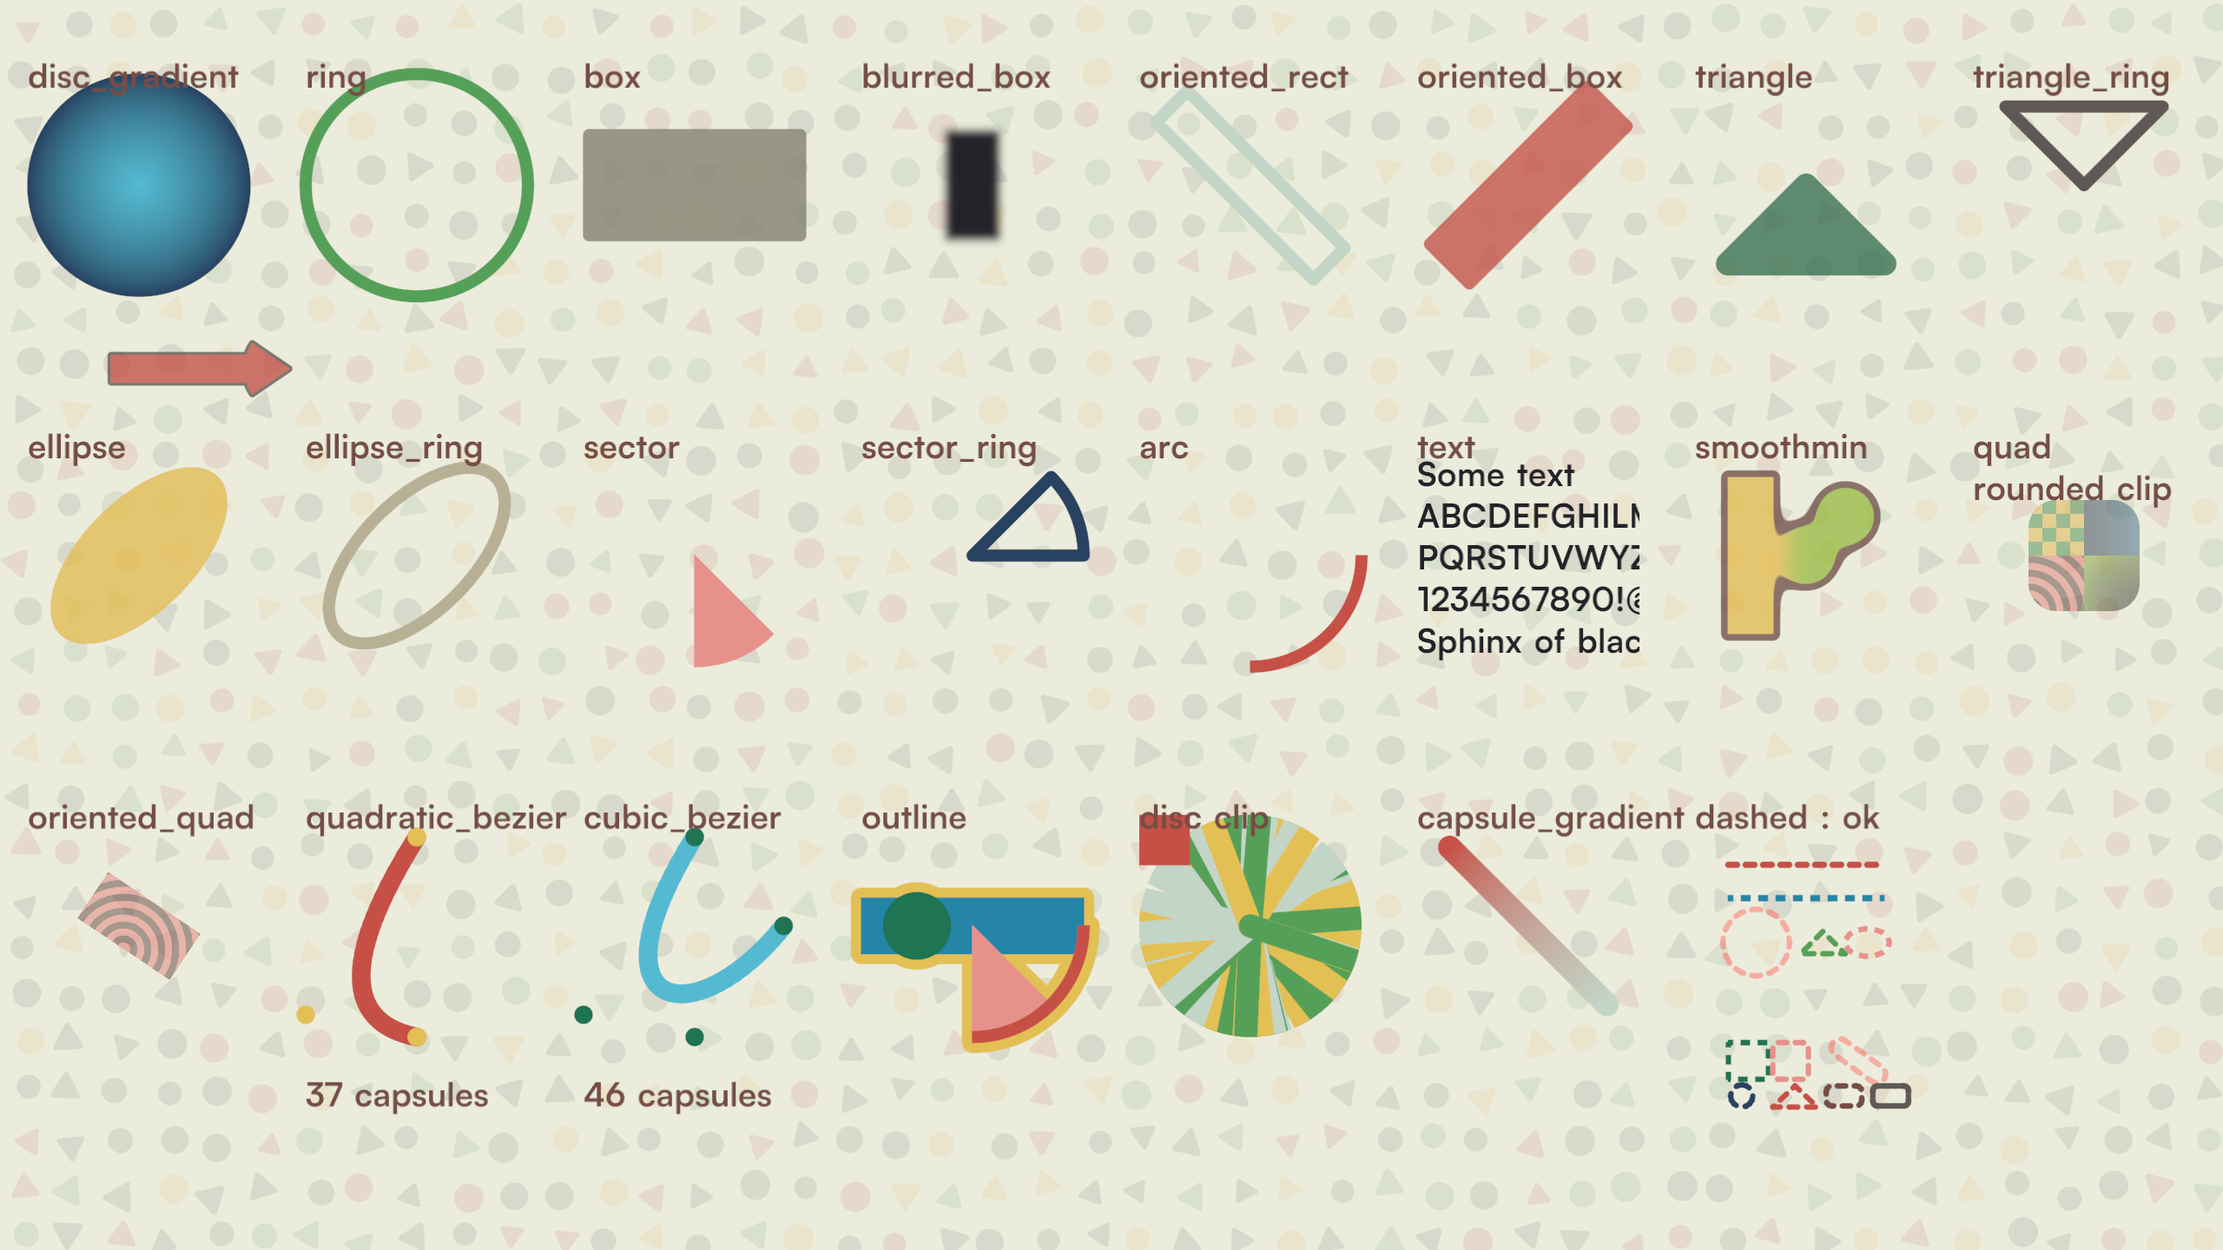
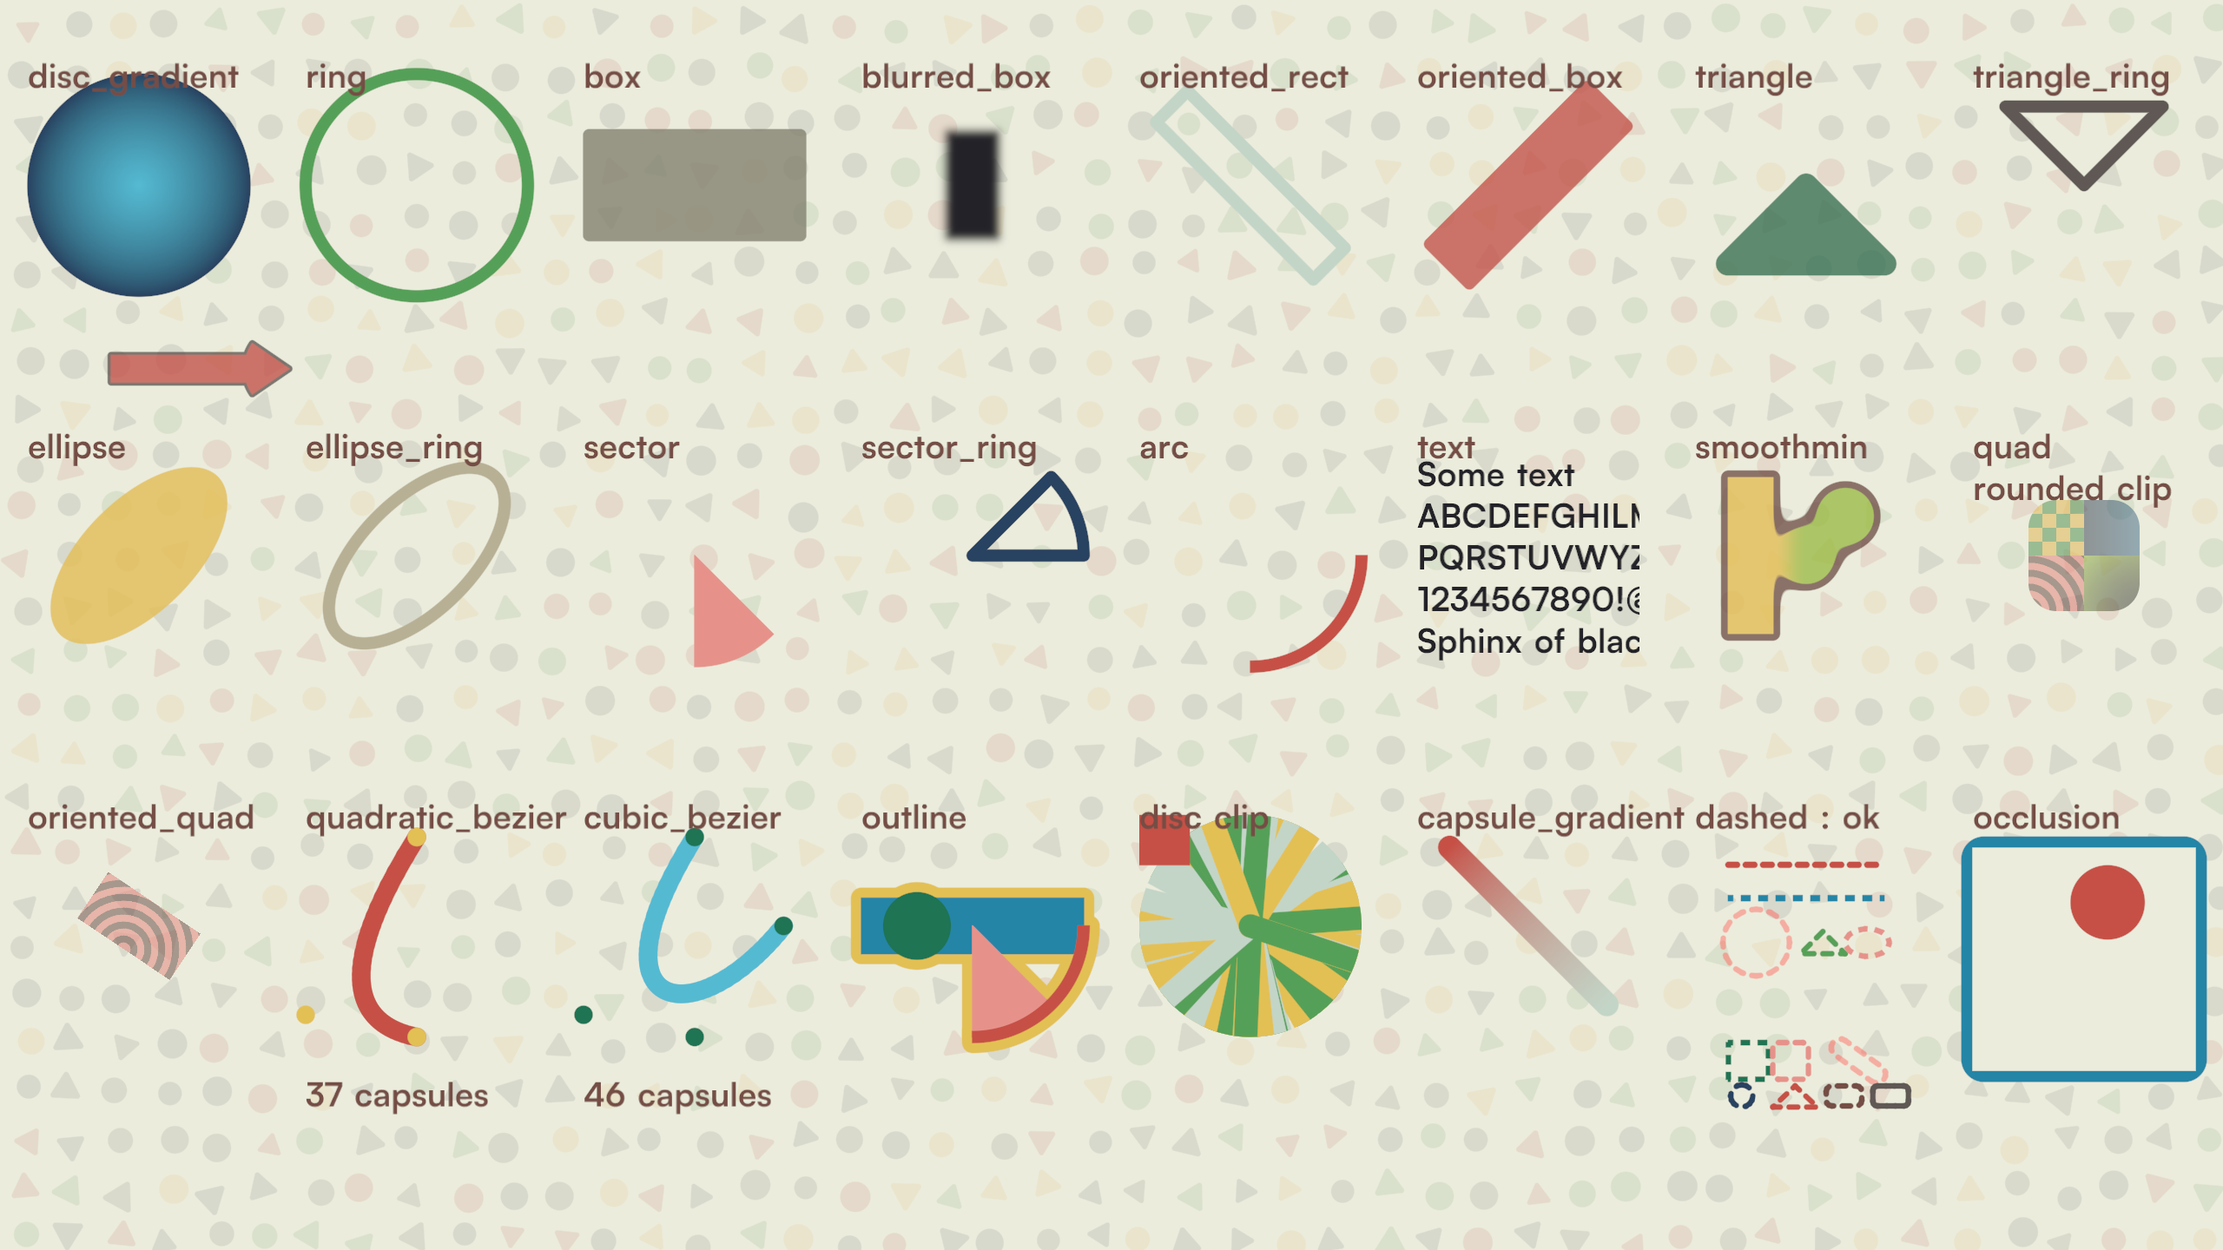
occlusion culling in tile_bin: a fully opaque aabox covering a tile breaks the walk, tested from its own params rounded or not, slot 23 window scene, v2.2.3 (plan step 5)

Changed region(s): [[0.875, 0.625, 1.0, 0.875]]

diff --git a/lib/binning.h b/lib/binning.h
@@ -3,7 +3,7 @@
 
 #include <stddef.h>
 
-static const size_t binning_shader_size = 37476;
+static const size_t binning_shader_size = 38569;
 static const char binning_shader[] =
     "#include <metal_stdlib>\n"
     "#ifndef __COMMON_H__\n"
@@ -851,6 +851,26 @@ static const char binning_shader[] =
     "}\n"
     "\n"
     "// ---------------------------------------------------------------------------------------------------------------------------\n"
+    "static inline bool covers_tile(ushort2 tile_xy, quantized_aabb cmd_aabb, aabb tile, draw_command cmd,\n"
+    "                               uint32_t color, bool in_group, constant float* data)\n"
+    "{\n"
+    "    if (cmd.type != primitive_aabox)\n"
+    "        return false;\n"
+    "\n"
+    "    // box size 1 cannot occluder anything\n"
+    "    if ((cmd_aabb.max_x <= tile_xy.x) || (cmd_aabb.max_y <= tile_xy.y))\n"
+    "        return false;\n"
+    "\n"
+    "    if ((cmd.fillmode != fill_solid) || (cmd.clip_index != 0) || ((color & 0xff000000u) != 0xff000000u) || in_group)\n"
+    "        return false;\n"
+    "\n"
+    "    float2 center = float2(data[0], data[1]);\n"
+    "    float2 shrunk = float2(data[2], data[3]) - float2(data[4], data[4]) - float2(0.01f, 0.01f);\n"
+    "\n"
+    "    return all(center - shrunk < tile.min) && all(tile.max < center + shrunk);\n"
+    "}\n"
+    "\n"
+    "// ---------------------------------------------------------------------------------------------------------------------------\n"
     "// for each tile of the screen, we traverse the list of commands of the region and if the command has an impact on the tile\n"
     "// we add the command to the linked list of the tile\n"
     "// ---------------------------------------------------------------------------------------------------------------------------\n"
@@ -878,6 +898,7 @@ static const char binning_shader[] =
     "\n"
     "    float aabb_margin = 0.f;\n"
     "    sdf_operator group_op = op_overwrite;\n"
+    "    bool in_group = false;\n"
     "    constant const uint16_t* indices = &regions_indices[region_index * input.num_commands];\n"
     "\n"
     "    uint tile_hash = input.frame_seed;\n"
@@ -925,11 +946,13 @@ static const char binning_shader[] =
     "        {\n"
     "            aabb_margin = 0.f;\n"
     "            group_op = op_overwrite;\n"
+    "            in_group = false;\n"
     "        }\n"
     "        else if (cmd.type == end_group)\n"
     "        {\n"
     "            aabb_margin = data[0];\n"
     "            group_op = (sdf_operator) cmd.extra;\n"
+    "            in_group = true;\n"
     "        }\n"
     "\n"
     "        // a group only counts when one of its primitives counts : the end node is deferred until the\n"
@@ -967,6 +990,9 @@ static const char binning_shader[] =
     "            }\n"
     "\n"
     "            add_node(output, counter, input.max_nodes, cmd_index, head);\n"
+    "\n"
+    "            if (covers_tile(tile_xy, cmd_aabb, tile_aabb, cmd, input.colors[cmd_index], in_group, data))\n"
+    "                break;\n"
     "        }\n"
     "    }\n"
     "\n"

diff --git a/tests/test.c b/tests/test.c
@@ -624,6 +624,33 @@ void frame(void)
     }
     od_draw_text(renderer, cx-radius, cy-radius*1.25f, string, miya_brown);
 
+    slot(23, &cx, &cy, &radius);
+    {
+        const uint32_t grid_colors[] = {miya_green, miya_yellow, miya_pink, miya_red, miya_blue, miya_light_green};
+        const uint32_t num_cols = 6;
+        const uint32_t num_rows = 5;
+
+        for (uint32_t j = 0; j < num_rows; j++)
+        {
+            for (uint32_t i = 0; i < num_cols; i++)
+            {
+                float gx = cx + ((float)i - (float)(num_cols - 1) * .5f) * radius * .36f;
+                float gy = cy + ((float)j - (float)(num_rows - 1) * .5f) * radius * .3f;
+                uint32_t color = grid_colors[(i + j) % 6u];
+
+                if ((i + j) & 1u)
+                    od_draw_disc(renderer, gx, gy, radius * .1f, color);
+                else
+                    od_draw_box(renderer, gx - radius * .1f, gy - radius * .1f, gx + radius * .1f, gy + radius * .1f, 0.f, color);
+            }
+        }
+
+        od_draw_box(renderer, cx - radius * 1.1f, cy - radius * .8f, cx + radius * 1.1f, cy + radius * 1.4f, radius * .2f, miya_blue);
+        od_draw_box(renderer, cx - radius * 1.0f, cy - radius * .7f, cx + radius * 1.0f, cy + radius * 1.3f, 0.f, miya_white);
+        od_draw_disc(renderer, cx + cosf(angle) * radius * .3f, cy - sinf(angle) * radius * .3f, radius * .33f, miya_red);
+    }
+    od_draw_text(renderer, cx-radius, cy-radius*1.25f, "occlusion", miya_brown);
+
     od_stats stats;
     od_get_stats(renderer, &stats);
 

diff --git a/lib/onedraw.h b/lib/onedraw.h
@@ -37,7 +37,7 @@
 
 #define ONEDRAW_MAJOR_VERSION   (2)
 #define ONEDRAW_MINOR_VERSION   (2)
-#define ONEDRAW_PATCH           (2)
+#define ONEDRAW_PATCH           (3)
 
 //----------------------------------------------------------------------------------------------------------------------------
 // Structures

diff --git a/plan/perf_memory_plan.md b/plan/perf_memory_plan.md
@@ -20,19 +20,22 @@ The fine GPU timings (`binning_time_ms`, `rasterization_time_ms`) are implemente
 `--validate` enables the Metal validation layer.
 
 Baseline, MacBook Pro 2x (1280x720 window -> 2560x1440 framebuffer, 160x90 tiles, 10x6 = 60 regions), averaged over the full session
-(14448 / 10744 frames), beefed scene of 06c0ec3 / 08b1028 (peak 2044 commands), current tree with steps 1 to 4 :
+(19888 / 25974 frames), current tree with steps 1 to 6, step 5 implemented, slot 23 scene (peak 2086 commands) :
 
 | cache | gpu | binning | rasterization | gpu memory |
 |-------|-----|---------|---------------|------------|
-| off   | 2.82 ms | 0.41 ms | 2.40 ms | 63141 kb (61.7 MiB) |
-| on    | 1.04 ms | 0.45 ms | 0.59 ms | 78117 kb (76.3 MiB) |
+| off   | 2.02 ms | 0.45 ms | 1.57 ms | 61087 kb (59.7 MiB) |
+| on    | 1.52 ms | 0.59 ms | 0.92 ms | 76063 kb (74.3 MiB) |
 
 The scene beef up invalidated the pre-beef baseline (1.91 / 1.04 / 0.80 ms off, 1.72 / 0.94 / 0.72 ms on, at 74661 / 89637 kb,
 scene ~790 commands, 40 frame averages ; the few "out of draw commands" lines were the step 1 regression frame) and the absolute
 numbers of the step 2 to 4 tables below, measured pre-beef : they stay as history, the baseline is re-anchored here.
 `gpu_memory_usage` does not move with the scene density (the buffers are sized from `LAST_COMMAND` and `MAX_NODES_COUNT`, not the peak) :
 the memory only changes in step 3 (the two region buffers) and step 7 (the pool sized from the peak).
-Rasterization is now the dominant cost (2.40 of the 2.82 ms, cache off) : the cache cut it 2.40 -> 0.59 ms, steps 5 and 9 attack the rest.
+The slot 23 scene of step 5 invalidated the previous anchor (2.82 / 1.04 ms at 63141 / 78117 kb) : same treatment as the 06c0ec3
+beef up, the old numbers stay as history in the step tables. Step 5 then re-anchored it once more, the pre-5 numbers stay in the step 5 table.
+
+Rasterization is now the dominant cost (1.57 of the 2.02 ms, cache off) : the cache cut it 1.57 -> 0.92 ms, steps 7 and 9 attack the rest.
 
 ## Step 1 : bug fixes
 
@@ -207,42 +210,54 @@ which helps group-heavy scenes the test scene doesn't have.
 
 ## Step 5 : occlusion culling in `tile_bin`
 
-Skipped, not implemented : the test scene has no occlusion (the non-colliding background of 06c0ec3 hides nothing), so the step would have
-nothing to measure. The spec stays below for a scene with stacked opaque content.
+Scene : slot 23 of the test scene - a grid of small shapes hidden by a rounded box "window", a sharp box inside it for the border, and a disc
+on top, all opaque, unclipped, ungrouped (the slot was tuned after the first draft). This invalidated the step 0 / 6 baseline : the scene is the
+new anchor, re-anchored at step 0.
+
+The cover is an `aabox` only, tested from its own parameters, rounded or not : a window fully covering some tiles is the main UI use case,
+disc / triangle / capsule covers are too niche to pay for. `commands_aabb` cannot be used for the test : it is grown by the aa / outline
+margin, which is not opaque and would cull under the box edge.
 
 - `tile_bin` walks the commands top-most first. When an added command fully covers the tile with alpha 1, add it and `break` : everything below is
-  hidden in this tile.
-- Rasterization is the dominant cost on the beefed scene (2.40 of the 2.82 ms, cache off) : every culled node is fewer pixels to shade. The
+  hidden in this tile. Rasterization is the dominant cost (1.83 of the 2.39 ms, cache off) : every culled node is fewer pixels to shade. The
   check stays a few cheap tests, ordered so almost every command leaves at the first (integer) test, keeping the binning cost negligible :
-  1. type is `primitive_aabox`, `primitive_disc`, `primitive_triangle`, or `primitive_oriented_box` with `width == 0` (capsule)
+  1. type is `primitive_aabox`
   2. `cmd_aabb.max_x > tile_xy.x && cmd_aabb.max_y > tile_xy.y`
   3. `fillmode == fill_solid`
   4. color alpha 255
   5. `clip_index == 0`
-  6. not inside a group (between an `end_group` and its `begin_group` in the reverse walk) ; groups are not handled
-  7. the containment test below
+  6. not inside a group (between an `end_group` and its `begin_group` in the reverse walk) ; a group shape blends through the group result, its own
+     alpha never applies
+  7. the box contains the tile (below)
 - Test 2 is an exact necessary condition, independent of the aabb margin : covering tile `k` means reaching its far edge `16(k+1)`, so the quantized
   max is at least `k+1`. It rejects every single-tile command (the ones accepted without an intersection test) and the last column / row of tiles of
   any command, with two integer compares on values already loaded. The min side is not tested : the clamp to 0 at the screen edge makes it a special case.
-- No `aa_width` margin is needed : `tile_fs` gives alpha 1 wherever `distance <= 0`, the anti-aliased fringe is outside the shape. Testing the tile
-  corners (not the pixel centers) already leaves half a pixel ; use a small epsilon (inside by 0.01 px) so binning and the fragment SDF agree.
-  All four shapes are convex : the four tile corners inside means the whole tile is inside.
-
-| Shape | Containment test | Cost |
-|-------|------------------|------|
-| box | tile inside the box shrunk by its corner radius on both axes (exact when the radius is 0, conservative otherwise) | 4 compares |
-| disc | farthest tile corner `max(abs(center - tile.min), abs(center - tile.max))` within the radius ; only possible from a ~11.3 px radius (tile half-diagonal) | 1 squared length |
-| capsule | the four tile corners within the radius of the segment (`data[5]`) | 4 point-segment distances |
-| triangle | `is_aabb_inside_triangle` (already used for hollow triangles), against the sharp triangle : conservative with a roundness | 4 x 3 edge functions |
-
-- Not covered on purpose : groups, ellipse, pie, arc, oriented box with a width, quads, chars, blurred box, hollow and gradient fills.
+- No `aa_width` margin is needed : `tile_fs` gives alpha 1 wherever `distance <= 0`, the anti-aliased fringe is outside the shape. The box is tested
+  shrunk by its corner radius (exact when the radius is 0, conservative when rounded : a tile inside the rounding band is not culled) with a 0.01 px
+  inward epsilon, so the binning and the fragment SDF agree. 4 compares, no SDF.
+- Not covered on purpose : disc, triangle, capsule, groups, ellipse, pie, arc, oriented box with a width, quads, chars, blurred box, hollow and
+  gradient fills.
 - Gains : fewer nodes, fewer SDF evaluations per pixel, shorter `tile_bin` loops (the `break` skips the rest of the region list for that tile), more
   cache hits (changes under an opaque panel no longer dirty the tile).
-- Measure on the test scene and on a UI-like scene (stacked opaque panels) ; keep the step only if the frame time drops.
-- Risk : `mix(prev, c, 1.0h)` is not guaranteed to round to exactly `c`, a few pixels can move by one 8-bit step ; check the PSNR, regenerate the
-  references only if the change is intentional and visually identical.
-- Test : for each of the four shapes, an opaque one covering other shapes renders the same as before ; plus the cases that must not cull
-  (translucent color, clip, inside a group, partial coverage).
+- Risk : `mix(prev, c, 1.0h)` is not guaranteed to round to exactly `c`, a few pixels can move by one 8-bit step ; in practice the reference stayed
+  pixel-identical, no update needed.
+- Test : the scene covers the fully covered tiles (the hidden grid) and the partial-coverage edge / corner tiles (the window crossing tile borders,
+  the rounded corners) that must not cull. The must-not-cull alpha case is the big translucent box of slot 2 over the background field : a broken
+  alpha check would erase the field through it and fail the PSNR gate. The clip / group exclusions are conservative and safe in that direction :
+  a clipped or grouped box that fully covers a tile is opaque where it covers, so culling under it is visually a no-op either way.
+
+Measured, same machine and scene, full session (19888 / 25974 frames), reference identical, `--validate` clean :
+
+| cache | gpu | binning | rasterization | gpu memory |
+|-------|-----|---------|---------------|------------|
+| off   | 2.02 ms | 0.45 ms | 1.57 ms | 61087 kb |
+| on    | 1.52 ms | 0.59 ms | 0.92 ms | 76063 kb |
+
+(before : 2.39 / 0.56 / 1.83 and 1.49 / 0.59 / 0.90 ms, same memory). Cache off : rasterization 1.83 -> 1.57 ms (-14 %), the frame
+2.39 -> 2.02 ms : the culled grid nodes under the window are fewer pixels to shade and the `break` shortens the tile lists. Cache on :
+flat within the machine's variance (1.49 -> 1.52) - slot 23 is static, its tiles are clean after the first frame and redrawn by
+`clean_fs`, the culling only saves the first hundred frames of the session. The step is kept : the frame time drops where the
+rasterization dominates (cache off), with no regression on the cache-on path.
 
 ## Step 6 : two frames in flight
 
@@ -291,7 +306,6 @@ and the gpu now running back to back frames instead of with a per frame idle gap
 - Replace one 8-byte node per command by chunks, e.g. 16 bytes = `next` + six `uint16` command indices (~2.7 bytes per command instead of 8).
 - `tile_bin` fills the current chunk in registers, from the last slot down (reverse traversal), and prepends it when full ; unused slots hold a sentinel skipped by the fragment shader.
 - About 3x less node memory for the same capacity (or the same capacity in ~11 MiB), and ~6x fewer dependent loads in `tile_fs`.
-- Size the pool from the peak measured in step 0 ; do it after step 4 and 5 since both change the node count.
 
 ## Step 8 : minor
 
@@ -335,7 +349,7 @@ the `tile_bin` work is wasted.
 | 2 no indices clear | low | - | binning |
 | 4 tile_bin traffic | low | - | binning |
 | 3 fused scan | medium | -11 MiB | binning |
-| 5 occlusion culling (skipped, no occlusion in the scene) | - | - | - |
+| 5 occlusion culling (aabox cover) | medium | - | rasterization (cache off) |
 | 6 two frames in flight | medium | -2 MiB | frame time |
 | 7 chunked nodes | high | up to -21 MiB | rasterization |
 | 8 minor | low | small | small |

diff --git a/perf_log.md b/perf_log.md
@@ -9,7 +9,8 @@ changed with the fused region binning kernel and would not be comparable across 
 
 - machine : MacBook Pro, M5 Pro
 - resolution : 2560x1440 (160x90 tiles, 10x6 regions)
-- scene : the beefed test scene (06c0ec3 / 08b1028, peak ~2044 commands), ported to every version
+- scene : the beefed test scene (06c0ec3 / 08b1028) + the slot 23 occlusion stack, peak ~2086 commands, ported to every version ;
+  the v2.0.0 / v2.2.2 rows predate slot 23 (peak ~2044)
 - gpu ms : the test.c average from frame 61 to quit ; use a ~2 min run, short runs drift up to ~0.4 ms with machine state
 - gpu memory : the `od_get_stats` sum of allocations ; deterministic, scene-independent up to the 65534 command cap
 - the cache on row is +14.6 MiB in every version (the full-frame cache texture) ; compare like with like
@@ -20,9 +21,14 @@ changed with the fused region binning kernel and would not be comparable across 
 | v2.0.0  | on    | 1.65   | 89637 kb (87.5 MiB) |
 | v2.2.2  | off   | 2.09   | 61087 kb (59.7 MiB) |
 | v2.2.2  | on    | 1.50   | 76063 kb (74.3 MiB) |
+| v2.2.3  | off   | 2.02   | 61087 kb (59.7 MiB) |
+| v2.2.3  | on    | 1.52   | 76063 kb (74.3 MiB) |
 
 ## Deltas
 
 - v2.0.0 -> v2.2.2 : frame time **-15 %** (no cache) / **-9 %** (cache) ; gpu memory **-13.3 MiB** at 1440p (~-27 MiB at 4K)
   - memory : 11.25 MiB, the fused region binning kernel removed the scan + predicate buffers (plan step 3) ; 2 MiB, cpu rings x3 -> x2 (plan step 6)
   - frame time : the fused region binning kernel, the deleted per-frame `regions.indices` clear, the leaner `tile_bin`, and the cpu/gpu overlap from two frames in flight
+- v2.2.2 -> v2.2.3 : frame time **flat** (-3 % no cache / +2 % cache) ; gpu memory unchanged. The rows are not scene-identical : v2.2.3
+  runs the slot 23 scene (+~42 commands, the window card). On that same scene v2.2.2 measured 2.39 ms (rasterization 1.83) :
+  the occlusion culling (plan step 5) is worth **-15 %** there, exactly offsetting the new content.
